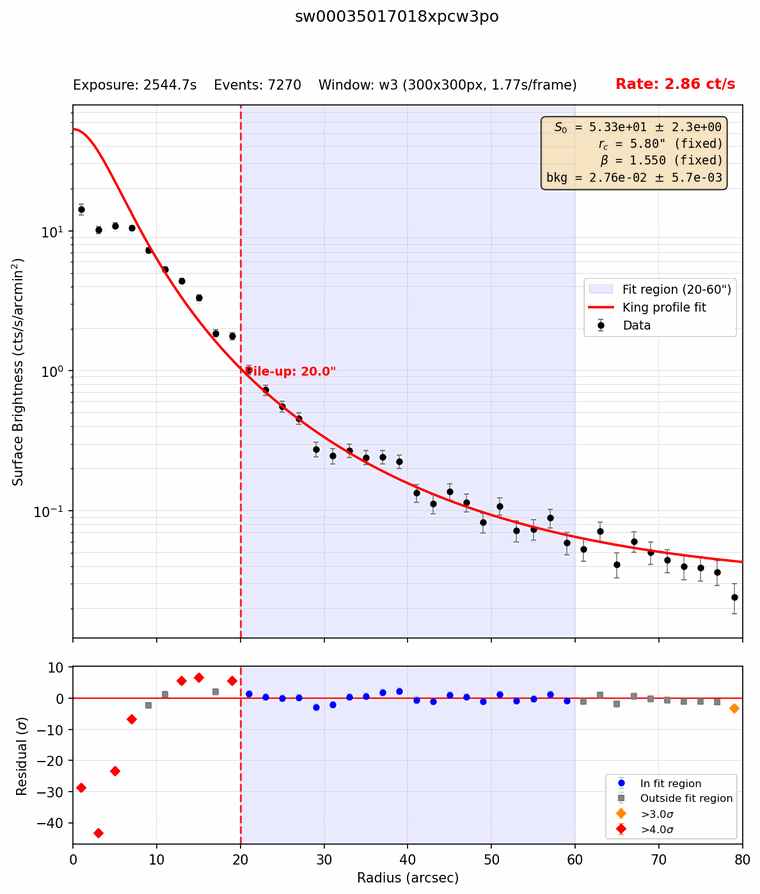
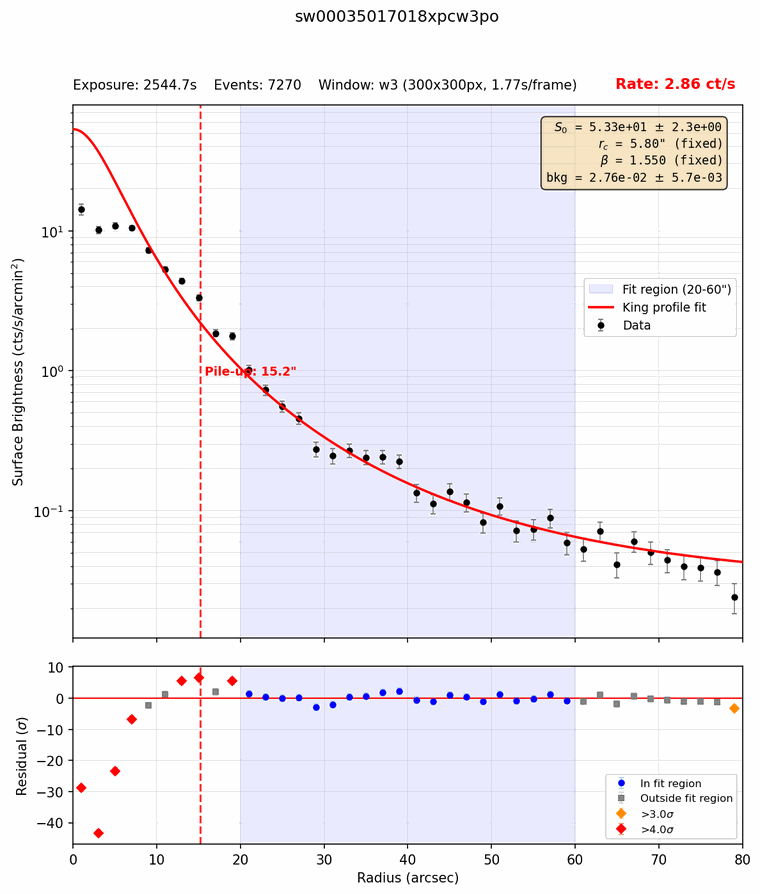
Step 5 docs: describe and show the spectrum-calibrated pile-up radius
The page now explains the PSF-threshold radius, with a figure and table
of the spectral test that set the threshold (1 keV flux against inner
radius for five 3C 273 PC observations, old and new radii marked), and
regenerated example plots. The low-count section is gone: every
observation now uses the same rule, and its image is removed. README's
script reference drops --maxs0err and the residual method; doc_notes
records the test, where its data are, the CALDB PSF finding, and the
frozen-gamma bias for short snapshots (for the Step 8 page).

diff --git a/docs/05-pc-inspection.md b/docs/05-pc-inspection.md
@@ -34,14 +34,17 @@ For each PC cleaned event file in each OBSID folder, the script:
    where pile-up doesn't reach. The shape is fixed at the Swift calibration
    values (rc = 5.8″, β = 1.55); only the normalization S0 and the background
    are free.
-4. **Finds where the data leave the model.** Walking inward from 30″, the
-   radius is the outer edge of the first ring that differs from the model by
-   4σ, or of the outer of two neighbouring rings that differ by 3σ.
-5. **Checks for low counts.** In a short exposure the residuals can't reach
-   3σ, so the measured radius comes out far too small. When S0 is uncertain by
-   more than 10%, the script instead uses the radius where the fitted model
-   falls to 1.75 counts per frame per arcmin², if that is larger. That
-   threshold was calibrated on the long 3C 273 exposures.
+4. **Sets the pile-up radius.** Pile-up depends on how many photons land on
+   the same pixels in one frame. So the radius is where the fitted profile,
+   which pile-up doesn't touch because it was fit to the wings, falls below
+   4 counts per frame per arcmin². S0 is taken at the top of its 1σ range, so
+   a short, noisy exposure errs toward a larger radius. If the radius reaches
+   into the 20–60″ fit range, those wings are piled up too, and the script
+   refits further out. [How the radius is chosen](#how-the-radius-is-chosen)
+   shows how the threshold was tested.
+5. **Flags rings that differ from the model**, by 4σ or by 3σ in two
+   neighbouring rings. The flags appear in the plot and in `_pileup.txt` as a
+   diagnostic only; they don't set the radius.
 6. **Applies overrides.** A radius you set in `pileup_overrides.txt` (in the
    working folder) replaces the automatic one.
 
@@ -53,9 +56,8 @@ For each PC cleaned event file in each OBSID folder, the script:
 | `--maxplot` | Largest radius plotted (default `--rmax` + 20) |
 | `--centroid` | Search radius for the source position, in arcsec (default 15) |
 | `--rc` / `--beta` | PSF shape, fixed (default 5.8″ and 1.55) |
-| `--sigma` / `--sigma2` | Thresholds for two neighbouring rings / one ring (default 3 and 4) |
-| `--sbthresh` | Low-count threshold in counts/frame/arcmin² (default 1.75) |
-| `--maxs0err` | Largest S0 error for trusting the measured radius (default 0.10) |
+| `--sbthresh` | Pile-up threshold in counts/frame/arcmin² (default 4.0) |
+| `--sigma` / `--sigma2` | Thresholds for the diagnostic ring flags: two neighbouring rings / one ring (default 3 and 4) |
 | `--pdf` | Name of the collected plots (default `king_profiles.pdf`) |
 
 ### 5b — Source images
@@ -90,83 +92,89 @@ table in [Step 6](06-wt-inspection.md), together with the WT table.
 
 ### Reading a profile plot
 
-![King profile of OBSID 00035017018: data fall far below the model inside 10 arcsec, sit above it between 13 and 19 arcsec, and follow it from 20 to 60 arcsec; the pile-up radius is 20 arcsec](img/step5_king_profile_018.png)
+![King profile of OBSID 00035017018: data fall far below the model inside 8 arcsec, sit above it between 13 and 19 arcsec, and follow it from 20 to 60 arcsec; the pile-up radius is 15.2 arcsec](img/step5_king_profile_018.png)
 
 The top panel shows the data (black) and the King model fitted to the shaded
 20–60″ wings (red), extended inward. The bottom panel shows the difference in
-σ. Orange and red diamonds are the 3σ and 4σ rings, and the dashed line is the
-chosen radius.
+σ, with orange and red diamonds for rings 3σ and 4σ off. The dashed line is
+the pile-up radius.
 
 Pile-up is the deficit in the core: here the data fall below the model inside
-about 8″, by up to 43σ. The radius, though, comes from the outermost flagged ring,
-and rings count whichever way they differ. In 018 an *excess* at 13–19″ sets
-the radius to 20″; in 073 one at 23″ sets 24″. So the radius errs on the large
-side: you lose some source counts, but no piled-up ones.
+about 8″, by up to 43σ. Between 13″ and 19″ the data sit *above* the model.
+Pile-up only removes counts, so that isn't pile-up. The rings between 12″
+and 20″ differ from the model by +34% to −10% from one observation to the
+next. The profile isn't corrected for bad columns crossing the source, and
+the King shape isn't exact. With thousands of counts, such differences show
+at 4–6σ. That is why the flags don't set the radius: they would put it at
+20″ here, and at 24″ for 073.
 
-### The low-count guard
+### How the radius is chosen
 
-![King profile of OBSID 00035017043, a 122-second exposure: the data are noisy and only the innermost ring is flagged, but the pile-up radius is set to 17.8 arcsec by the low-count guard](img/step5_king_profile_043.png)
+![Five panels, one per 3C 273 PC observation, of the 1 keV flux against the inner radius of the extraction annulus: the flux rises from about half its final value at 0 arcsec and levels off between 10 and 16 arcsec; the new radius lands just beyond that point in every panel, while the old radius is at 20 to 24 arcsec in three panels and too small, at 10 arcsec, for the off-axis pointing](img/step5_pileup_calibration.png)
 
-With 302 events, 043's profile is noisy. Only the innermost ring is flagged,
-which would exclude just 2″. Its S0 is uncertain by 24%, so the script uses
-the PSF threshold radius instead:
+The threshold was set by testing radii against spectra, not profiles. For
+five 3C 273 PC observations, spectra were extracted with inner radii from 0″
+to 28″ and fitted (Steps 7 and 8). While the inner radius is too small,
+piled-up events stay in the spectrum and the 1 keV flux comes out low. Once
+the core is excluded, the flux levels off. At 4.0 counts/frame/arcmin², the
+radius (orange) lands 1–5″ beyond that point in all five.
 
-```
-  Processing: sw00035017043xpcw3po_cl.evt
-    ...
-    Pile-up detected: recommended inner radius = 2.0"
-    Window: w3 (300x300px, 1.77s/frame)
-    S0 error: 24%   PSF-threshold radius: 17.8"
-    LOW COUNTS: profile too poorly constrained (S0 error 24% > 10%); using PSF-threshold radius 17.8" instead of 2.0"
-```
+The old radius (gray) came from the ring flags. It was larger than needed for
+018, 073 and 074, keeping only 42–65% of the counts the new radius keeps, and
+too small for the off-axis pointing, whose flux was then 17% low:
 
-The five PC observations in the test set:
+| OBSID | Flux levels off at | Old radius | New radius | Flux, old radius | Flux, new radius | Flux at 20″ |
+| ----- | ------------------ | ---------- | ---------- | ---------------- | ---------------- | ----------- |
+| 018 | 14″ | 20″ | 15.2″ | 1.53 ± 0.09 | 1.50 ± 0.07 | 1.53 ± 0.09 |
+| 045 | 16″ | 16″ | 18.7″ | 2.08 ± 0.07 | 2.14 ± 0.08 | 2.18 ± 0.09 |
+| 073 | 14″ | 24″ | 15.3″ | 1.29 ± 0.06 | 1.33 ± 0.04 | 1.36 ± 0.05 |
+| 074 | 10″ | 20″ | 14.8″ | 1.39 ± 0.03 | 1.38 ± 0.03 | 1.39 ± 0.03 |
+| 00091742013 | 12″ | 10″ | 15.8″ | 1.15 ± 0.07 | 1.33 ± 0.10 | 1.39 ± 0.12 |
 
-| OBSID | Exposure | S0 error | Measured | PSF threshold | Used |
-| ----- | -------- | -------- | -------- | ------------- | ---- |
-| 018 | 2545 s | 4% | 20.0″ | 20.2″ | 20.0″ |
-| 043 | 122 s | 24% | 2.0″ | 17.8″ | **17.8″** (guard) |
-| 073 | 6303 s | 3% | 24.0″ | 20.4″ | 24.0″ |
-| 080 | 75 s | 36% | 4.0″ | 17.2″ | **17.2″** (guard) |
-| 00091742013 | 1099 s | 6% | 10.0″ | 20.8″ | 10.0″ |
+Fluxes are at 1 keV, in 10⁻²⁸ erg cm⁻² s⁻¹ Hz⁻¹. "Levels off at" is the
+smallest radius from which the flux stays within 2σ of its value at 20″.
 
-The last row is the SDSS J122933+015810 pointing from Step 4, with 3C 273
-7.3′ off-axis. Its profile is clean, with the deficit starting at 10″. The PSF
-threshold assumes the on-axis PSF shape and doesn't apply here; it replaces
-the measured radius only for low-count data.
+The two short snapshots in the test set get 14.2″, because their S0 is
+uncertain by 24% (043, 122 s) and 36% (080, 75 s). 043 keeps 82 counts, enough
+for a fit with Γ frozen. 080 keeps too few, so it drops out of the light curve
+in Step 8.
 
-With proper exclusion, 043 and 080 keep too few counts to fit, so they drop
-out of the light curve in Step 8. With their old 2–4″ radii they produced PC
-fluxes up to 2.4 times too low.
+The calibration covers one source at 2.3–3.6 ct/s. Pile-up depends on counts
+per frame on each pixel, and that is what the threshold measures, so it
+should carry over to other sources. To check a source that is much brighter or
+fainter, repeat the test: set a series of radii with `pileup_overrides.txt`,
+re-run 5a, then extract and fit (Steps 7 and 8) at each.
 
 ### What `_pileup.txt` records
 
 ```
-# Pile-up analysis for sw00035017043xpcw3po
+# Pile-up analysis for sw00035017018xpcw3po
 # Source position (input): RA=187.277900 Dec=2.052400
-# Centroid position (pix): X=442.06 Y=512.01
+# Centroid position (pix): X=512.36 Y=512.09
 # Plate scale: 2.3573 arcsec/pixel
 # Sigma thresholds: 3.0 (2 consec), 4.0 (single)
 # King PSF: rc=5.80" beta=1.550 (fixed)
 # Window: Window: w3 (300x300px, 1.77s/frame)
-# Count rate: 2.468 ct/s
-pileup_radius_arcsec = 17.8
+# Count rate: 2.857 ct/s
+pileup_radius_arcsec = 15.2
 
 # How pileup_radius_arcsec was chosen:
-pileup_method = psf-threshold (low counts)
-measured_pileup_radius_arcsec = 2.0
-psf_threshold_radius_arcsec = 17.8
-s0_fractional_error = 0.236
+pileup_method = psf-threshold
+sb_threshold = 4 counts/frame/arcmin^2
+wing_fit_range_arcsec = 20-60
+s0_fractional_error = 0.042
+# Residual-flag radius, diagnostic only:
+measured_pileup_radius_arcsec = 20.0
 ```
 
 Step 7 reads the centroid, plate scale, count rate, `pileup_radius_arcsec` and
 `override_radius_arcsec` (present when an override applies). It extracts an
-annulus from the pile-up radius outward, centred on the centroid. The last
-four lines are a record of how the radius was chosen.
+annulus from the pile-up radius outward, centred on the centroid. The lines
+after the blank line record how the radius was chosen.
 
 ### What to look for in the images
 
-![Source image of OBSID 00035017073: a single point source at the magenta centroid, with the 24-arcsec pile-up radius drawn as a red dashed circle](img/step5_source_073.png)
+![Source image of OBSID 00035017073: a single point source at the magenta centroid, with the 15.3-arcsec pile-up radius drawn as a red dashed circle](img/step5_source_073.png)
 
 - **One point source at the magenta mark.** If the mark sits off the source,
   `--ra`/`--dec` or the centroid search went wrong.

diff --git a/README.md b/README.md
@@ -298,14 +298,11 @@ Key options:
     --rmin      Inner fit annulus radius in arcsec (default: 20)
     --rmax      Outer fit annulus radius in arcsec (default: 60)
     --rbin      Radial bin width in arcsec (default: 2)
-    --sigma     Pile-up detection threshold, 2 consecutive bins (default: 3.0)
-    --sigma2    Pile-up detection threshold, single bin (default: 4.0)
     --rc        King core radius, fixed (default: 5.8")
     --beta      King beta slope, fixed (default: 1.55)
-    --sbthresh  Pile-up surface brightness, counts/frame/arcmin^2,
-                for the low-count guard (default: 1.75)
-    --maxs0err  Max fractional S0 error to trust the profile-based
-                radius (default: 0.10)
+    --sbthresh  Pile-up threshold, counts/frame/arcmin^2 (default: 4.0)
+    --sigma     Diagnostic ring flags, 2 consecutive bins (default: 3.0)
+    --sigma2    Diagnostic ring flags, single bin (default: 4.0)
     --pdf       Output PDF filename (default: king_profiles.pdf)
 
 Output (per OBSID):
@@ -320,9 +317,9 @@ Override file (optional):
     radius from _pileup.txt, not from the override file.
 ```
 
-The King model `S(r) = S0 * (1 + (r/rc)²)^(-β) + bkg` is fit to the outer wings only (rmin–rmax), then extrapolated inward. Walking inward from 30″, the outermost ring that differs from the model (by `--sigma2`, or by `--sigma` in two neighbouring rings, in either direction) sets the pile-up radius. The core radius (rc=5.8") and slope (β=1.55) are fixed to the Swift XRT calibration values; only S0 and background are free.
+The King model `S(r) = S0 * (1 + (r/rc)²)^(-β) + bkg` is fit to the outer wings only (rmin–rmax), where pile-up doesn't reach. The core radius (rc=5.8") and slope (β=1.55) are fixed; only S0 and background are free. The pile-up radius is where this profile, with S0 at the top of its 1σ range, falls below `--sbthresh` counts per frame per arcmin² (pile-up is per frame, so this scales with the window's frame time). If the radius reaches into the fitting annulus, the wings are refit further out.
 
-**Low-count guard.** With few counts (short exposures), the residuals rarely reach the sigma thresholds, so the profile method under-reports pile-up: on 3C 273, 75–122 s PC snapshots got 2–4″ while long exposures of the same ~2.5 ct/s source got 16–24″. When the wing fit is poorly constrained (S0 error > `--maxs0err`), the script instead uses the radius where the fitted King profile, which is unaffected by pile-up, falls below `--sbthresh` (or the measured radius if larger). `--sbthresh` is calibrated on those long exposures, where it reproduces the measured radii to within a few arcsec, and scales with frame time. `_pileup.txt` records `pileup_method`, the measured radius and the PSF-threshold radius. After proper excision such snapshots often have too few counts to fit, which is the honest outcome: with the old radii they produced fluxes up to 2.4× too low.
+The threshold was calibrated on spectra. For five 3C 273 PC observations, spectra extracted with inner radii of 0–28″ show the 1 keV flux levelling off once the piled-up core is excluded, at 10–16″. At 4.0 the radius lands 1–5″ beyond that in all five, and the fluxes agree with the levelled-off values. Rings that differ from the model by `--sigma`/`--sigma2` are still flagged in the plot and `_pileup.txt`, but only as a diagnostic: with thousands of counts, departures from the model outside the pile-up (the King shape isn't exact, and the profile isn't corrected for bad columns) show at 4–6σ, so the flags set radii of 20–24″ where 10–14″ suffices, and 10″ for an off-axis source whose flux was then 17% low. Details and the test: [docs/05-pc-inspection.md](docs/05-pc-inspection.md#how-the-radius-is-chosen).
 
 ### `swift_pc_source_viewer.py`
 

diff --git a/doc_notes.md b/doc_notes.md
@@ -184,17 +184,41 @@ Logged during **1.2.4.doc** (Step 4 page, `docs/step4-survey`).
   finds nothing there). The Step 4 page warns about it; later pages should
   say "run inside `XRT_output`" as well.
 
-Logged during **1.2.5.doc** (Step 5 page, `docs/step5-pc-inspection`). No
-code changes. Findings:
+Logged during **1.2.5.doc** (Step 5 page, `docs/step5-pc-inspection`).
+Findings:
 
-- **Question for the author: the pile-up radius counts excesses too.**
-  `detect_pileup_radius` flags rings by |residual|, so an excess above the
-  fixed-shape King model sets the radius as readily as the core deficit.
-  On-axis 3C 273: 018's deficit ends at ~8″ but an excess at 13–19″ sets
-  20″; 073's ends at ~10″ but an excess at 23″ sets 24″. The off-axis
-  SDSS J122933 pointing (3C 273 at 7.3′) has no excess and gets 10″ from
-  the deficit. The excess may mean the fixed rc/β doesn't match this
-  source's PSF. It errs conservative; documented, not changed.
+- ~~The pile-up radius counts excesses too~~ — REPLACED on
+  `docs/step5-pc-inspection` (the author asked for a smarter automatic
+  radius; overrides had been set by hand). The residual flags (|residual|,
+  3σ/4σ) set 018 and 073 at 20″/24″ from an excess at 13–23″, and the
+  off-axis SDSS J122933 pointing at 10″. Ground truth came from spectra:
+  for 018, 045, 073, 074 and 00091742013, inner radii 0–28″ were extracted
+  and fit with the pipeline (overrides + Steps 7–8), and the 1 keV flux
+  levels off at 10–16″ (2σ test against 20″, using
+  σ_diff² = σ_outer² − σ_inner² for nested annuli). The flags missed in
+  both directions, and a deficit-only test (with either PSF shape) gave
+  8–10″ for 018/073, where their flux was still 9–18% low. The radius is
+  now the PSF surface-brightness threshold (S0 + 1σ) at 4.0
+  counts/frame/arcmin² for every observation; PR #11's 1.75 had been
+  calibrated to the inflated flag radii. Fluxes at the new radii match the
+  levelled-off values within 0.5σ, with 21–34% smaller errors for 018, 073
+  and 074. The calibration covers one source at 2.3–3.6 ct/s.
+  Test data stay on amorgos in `test_runs/pu/` (gitignored): `R00`–`R28`
+  extractions and fits, `scan.json`, `NEW/` (new method), `analysis/`.
+- **The CALDB PC PSF (`swxpsf20010101v006`, 2020) is not the script's
+  King shape.** v006 is a King with rc = 1.581 px (3.7″) and β = 1.305 plus
+  a 7.5% Gaussian with σ = 3.149 px; the script's fixed rc = 5.8″,
+  β = 1.55 matches v004/v005. Neither describes the 12–20″ rings
+  consistently: data/model there runs from +34% (018) to −10% (045) with
+  the script's shape and +16% to −20% with v006, varying by observation.
+  Likely causes: bad columns crossing the source (the profile isn't
+  exposure-corrected), pile-up reaching ~16″ in the brightest (045), maybe
+  the 3C 273 jet at 13–22″ (a wedge test was inconclusive, confounded by
+  exposure). That per-observation structure, not pile-up, is what the
+  flags picked up; v006 in the profile gave the same radii.
+- **The fitter freezes Γ at `--defgamma` 2.0 below `--mingamma` 200
+  counts.** For 3C 273 (Γ ≈ 1.5) that biases the 1 keV flux of short PC
+  snapshots such as 043 (82 counts at its new 14.2″). For 1.2.8.
 - **Overrides reach extraction only through `_pileup.txt`.** Extraction
   never reads `pileup_overrides.txt`, though `parallel_extract.py` symlinks
   it into each chunk dir as if it did. Documented ("re-run 5a"); for
